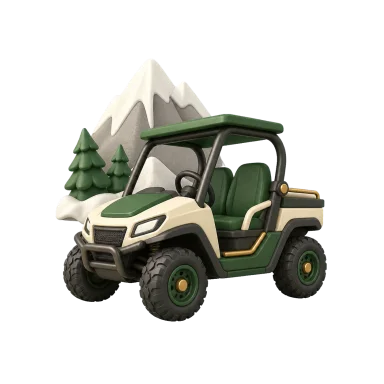
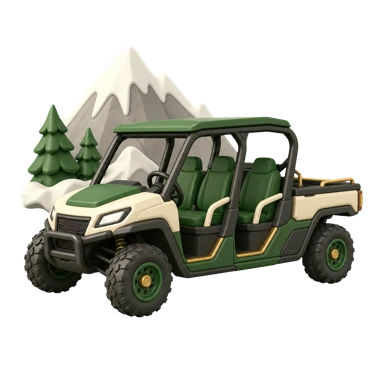
Align preference bar and refresh Can-Am buggy artwork

diff --git a/css/styles.css b/css/styles.css
@@ -820,9 +820,12 @@ a.card:active { transform: scale(0.985); transition: transform var(--motion-snap
 .feature-image {
   display: grid;
   place-items: center;
-  width: 104px;
-  height: 104px;
+  width: 128px;
+  height: 128px;
   flex: none;
+  border-radius: 40px;
+  background: radial-gradient(circle at 50% 52%, color-mix(in srgb, var(--ui-icon-surface) 76%, transparent), transparent 70%);
+  filter: drop-shadow(0 12px 16px rgba(16, 50, 42, .18));
 }
 .feature-image img { display: block; width: 100%; height: 100%; object-fit: contain; }
 .icon-box {
@@ -3998,9 +4001,9 @@ body[data-page="restaurantes"] .app-container { max-width: 1040px; }
 .guide-map-shell { border-radius: 22px; }
 .guide-view-switch { display: none; }
 @media (min-width: 901px) {
-  body[data-section="nearby"] .prefs-stack--inline { position: absolute; top: 31px; right: 20px; z-index: 600; display: flex; width: 330px; gap: 8px; margin: 0; padding: 0; }
-  body[data-section="nearby"] .lang-selector { position: static; width: 210px; margin: 0; padding: 3px; }
-  body[data-section="nearby"] .theme-selector { position: static; width: 112px; margin: 0; padding: 3px; }
+  body[data-section="nearby"] .prefs-stack--inline { position: relative; inset: auto; z-index: 600; display: flex; width: 100%; gap: 8px; margin: 0 0 14px; padding: 5px; }
+  body[data-section="nearby"] .lang-selector { position: static; width: auto; margin: 0; padding: 3px; }
+  body[data-section="nearby"] .theme-selector { position: static; width: auto; margin: 0; padding: 3px; }
   body[data-section="nearby"] .lang-selector button,
   body[data-section="nearby"] .theme-selector button { min-height: 38px; }
 }
@@ -4078,10 +4081,10 @@ html[data-theme="dark"] body {
   align-items: center;
   justify-content: center;
   gap: 5px;
-  width: max-content !important;
-  max-width: calc(100% - 24px);
+  width: 100% !important;
+  max-width: none;
   min-width: 0;
-  margin: 0 0 14px auto;
+  margin: 0 0 14px;
   padding: 5px;
   border: 1px solid var(--ui-border);
   border-radius: 30px;
@@ -4813,7 +4816,7 @@ html[data-theme="dark"] .guide-map-toggle[aria-expanded="true"] {
 }
 
 @media (max-width: 360px) {
-  body[data-section="nearby"] .prefs-stack--inline.preference-bar { display: flex; width: max-content !important; }
+  body[data-section="nearby"] .prefs-stack--inline.preference-bar { display: flex; width: 100% !important; }
   body[data-section="nearby"] .prefs-stack--inline.preference-bar .theme-selector { width: auto; }
   body[data-section="nearby"] .prefs-stack--inline.preference-bar .theme-selector__buttons { display: flex; width: auto; }
   .guide-tools { grid-template-columns: 1fr; }

diff --git a/data/.baseline/css-styles.css b/data/.baseline/css-styles.css
@@ -820,9 +820,12 @@ a.card:active { transform: scale(0.985); transition: transform var(--motion-snap
 .feature-image {
   display: grid;
   place-items: center;
-  width: 104px;
-  height: 104px;
+  width: 128px;
+  height: 128px;
   flex: none;
+  border-radius: 40px;
+  background: radial-gradient(circle at 50% 52%, color-mix(in srgb, var(--ui-icon-surface) 76%, transparent), transparent 70%);
+  filter: drop-shadow(0 12px 16px rgba(16, 50, 42, .18));
 }
 .feature-image img { display: block; width: 100%; height: 100%; object-fit: contain; }
 .icon-box {
@@ -3998,9 +4001,9 @@ body[data-page="restaurantes"] .app-container { max-width: 1040px; }
 .guide-map-shell { border-radius: 22px; }
 .guide-view-switch { display: none; }
 @media (min-width: 901px) {
-  body[data-section="nearby"] .prefs-stack--inline { position: absolute; top: 31px; right: 20px; z-index: 600; display: flex; width: 330px; gap: 8px; margin: 0; padding: 0; }
-  body[data-section="nearby"] .lang-selector { position: static; width: 210px; margin: 0; padding: 3px; }
-  body[data-section="nearby"] .theme-selector { position: static; width: 112px; margin: 0; padding: 3px; }
+  body[data-section="nearby"] .prefs-stack--inline { position: relative; inset: auto; z-index: 600; display: flex; width: 100%; gap: 8px; margin: 0 0 14px; padding: 5px; }
+  body[data-section="nearby"] .lang-selector { position: static; width: auto; margin: 0; padding: 3px; }
+  body[data-section="nearby"] .theme-selector { position: static; width: auto; margin: 0; padding: 3px; }
   body[data-section="nearby"] .lang-selector button,
   body[data-section="nearby"] .theme-selector button { min-height: 38px; }
 }
@@ -4078,10 +4081,10 @@ html[data-theme="dark"] body {
   align-items: center;
   justify-content: center;
   gap: 5px;
-  width: max-content !important;
-  max-width: calc(100% - 24px);
+  width: 100% !important;
+  max-width: none;
   min-width: 0;
-  margin: 0 0 14px auto;
+  margin: 0 0 14px;
   padding: 5px;
   border: 1px solid var(--ui-border);
   border-radius: 30px;
@@ -4813,7 +4816,7 @@ html[data-theme="dark"] .guide-map-toggle[aria-expanded="true"] {
 }
 
 @media (max-width: 360px) {
-  body[data-section="nearby"] .prefs-stack--inline.preference-bar { display: flex; width: max-content !important; }
+  body[data-section="nearby"] .prefs-stack--inline.preference-bar { display: flex; width: 100% !important; }
   body[data-section="nearby"] .prefs-stack--inline.preference-bar .theme-selector { width: auto; }
   body[data-section="nearby"] .prefs-stack--inline.preference-bar .theme-selector__buttons { display: flex; width: auto; }
   .guide-tools { grid-template-columns: 1fr; }

diff --git a/data/.baseline/index.html b/data/.baseline/index.html
@@ -9,7 +9,7 @@
  <link rel="preload" as="image" type="image/webp" media="(min-width: 720px)" fetchpriority="high" href="css/bg/winter/home-01-nevados-panorama.webp?v=2">
  <script>(function(){var t="";try{t=localStorage.getItem("gh-theme-v3")||""}catch(e){}if(t!=="light"&&t!=="dark"){t="dark"}document.documentElement.setAttribute("data-theme",t)})();</script>
   <script>(function(){var c=new URLSearchParams(location.search).get("condition");if(c==="a"||c==="b")document.documentElement.setAttribute("data-study-condition",c)})();</script>
-<link rel="stylesheet" href="css/styles.css?v=21">
+<link rel="stylesheet" href="css/styles.css?v=22">
  <link rel="stylesheet" href="css/section-palettes.css?v=4">
  <link rel="stylesheet" href="css/access.css?v=4">
 </head>
@@ -111,7 +111,7 @@
   <!-- Departure + manual pair -->
   <div class="grid-2 mb-4">
    <a href="buggy.html" class="card section-card section-card--transport">
-    <span class="home-icon" aria-hidden="true"><img src="assets/home-icons/vehicle-light.webp" data-theme-image data-src-light="assets/home-icons/vehicle-light.webp" data-src-dark="assets/home-icons/vehicle-dark.webp" width="384" height="384" alt="" loading="lazy" decoding="async"></span>
+    <span class="home-icon" aria-hidden="true"><img src="assets/home-icons/transport-light.webp" data-theme-image data-src-light="assets/home-icons/transport-light.webp" data-src-dark="assets/home-icons/transport-dark.webp" width="384" height="384" alt="" loading="lazy" decoding="async"></span>
     <h3 data-i18n="nav.buggy.t">Buggy a Plaza Tata</h3>
     <p data-i18n="nav.buggy.s">Traslado a pistas</p>
     </a>

diff --git a/index.html b/index.html
@@ -9,7 +9,7 @@
  <link rel="preload" as="image" type="image/webp" media="(min-width: 720px)" fetchpriority="high" href="css/bg/winter/home-01-nevados-panorama.webp?v=2">
  <script>(function(){var t="";try{t=localStorage.getItem("gh-theme-v3")||""}catch(e){}if(t!=="light"&&t!=="dark"){t="dark"}document.documentElement.setAttribute("data-theme",t)})();</script>
   <script>(function(){var c=new URLSearchParams(location.search).get("condition");if(c==="a"||c==="b")document.documentElement.setAttribute("data-study-condition",c)})();</script>
-<link rel="stylesheet" href="css/styles.css?v=21">
+<link rel="stylesheet" href="css/styles.css?v=22">
  <link rel="stylesheet" href="css/section-palettes.css?v=4">
  <link rel="stylesheet" href="css/access.css?v=4">
 </head>
@@ -111,7 +111,7 @@
   <!-- Departure + manual pair -->
   <div class="grid-2 mb-4">
    <a href="buggy.html" class="card section-card section-card--transport">
-    <span class="home-icon" aria-hidden="true"><img src="assets/home-icons/vehicle-light.webp" data-theme-image data-src-light="assets/home-icons/vehicle-light.webp" data-src-dark="assets/home-icons/vehicle-dark.webp" width="384" height="384" alt="" loading="lazy" decoding="async"></span>
+    <span class="home-icon" aria-hidden="true"><img src="assets/home-icons/transport-light.webp" data-theme-image data-src-light="assets/home-icons/transport-light.webp" data-src-dark="assets/home-icons/transport-dark.webp" width="384" height="384" alt="" loading="lazy" decoding="async"></span>
     <h3 data-i18n="nav.buggy.t">Buggy a Plaza Tata</h3>
     <p data-i18n="nav.buggy.s">Traslado a pistas</p>
     </a>

diff --git a/actividades.html b/actividades.html
@@ -11,7 +11,7 @@
  <link rel="preload" as="image" type="image/webp" media="(min-width: 720px)" fetchpriority="high" href="css/bg/winter/actividades-montana-otono.webp?v=2">
   <script>(function(){var t="";try{t=localStorage.getItem("gh-theme-v3")||""}catch(e){}if(t!=="light"&&t!=="dark"){t="dark"}document.documentElement.setAttribute("data-theme",t)})();</script>
   <script>(function(){var c=new URLSearchParams(location.search).get("condition");if(c==="a"||c==="b")document.documentElement.setAttribute("data-study-condition",c)})();</script>
-<link rel="stylesheet" href="css/styles.css?v=21">
+<link rel="stylesheet" href="css/styles.css?v=22">
   <link rel="stylesheet" href="css/section-palettes.css?v=4">
   <link rel="stylesheet" href="css/access.css?v=4">
 </head>

diff --git a/botiquin.html b/botiquin.html
@@ -9,7 +9,7 @@
  <link rel="preload" as="image" type="image/webp" media="(min-width: 720px)" fetchpriority="high" href="css/bg/winter/instrucciones-termas-nieve.webp?v=2">
   <script>(function(){var t="";try{t=localStorage.getItem("gh-theme-v3")||""}catch(e){}if(t!=="light"&&t!=="dark"){t="dark"}document.documentElement.setAttribute("data-theme",t)})();</script>
   <script>(function(){var c=new URLSearchParams(location.search).get("condition");if(c==="a"||c==="b")document.documentElement.setAttribute("data-study-condition",c)})();</script>
-<link rel="stylesheet" href="css/styles.css?v=21">
+<link rel="stylesheet" href="css/styles.css?v=22">
 <link rel="stylesheet" href="css/section-palettes.css?v=4">
 <link rel="stylesheet" href="css/access.css?v=4">
 </head>

diff --git a/buggy.html b/buggy.html
@@ -9,7 +9,7 @@
  <link rel="preload" as="image" type="image/webp" media="(min-width: 720px)" fetchpriority="high" href="css/bg/winter/tickets-pistas-nevados.webp?v=2">
   <script>(function(){var t="";try{t=localStorage.getItem("gh-theme-v3")||""}catch(e){}if(t!=="light"&&t!=="dark"){t="dark"}document.documentElement.setAttribute("data-theme",t)})();</script>
   <script>(function(){var c=new URLSearchParams(location.search).get("condition");if(c==="a"||c==="b")document.documentElement.setAttribute("data-study-condition",c)})();</script>
-<link rel="stylesheet" href="css/styles.css?v=21">
+<link rel="stylesheet" href="css/styles.css?v=22">
 <link rel="stylesheet" href="css/section-palettes.css?v=4">
 <link rel="stylesheet" href="css/access.css?v=4">
 </head>

diff --git a/cerca-de-mi.html b/cerca-de-mi.html
@@ -11,7 +11,7 @@
   <link rel="stylesheet" href="assets/vendor/leaflet/leaflet.css">
   <link rel="stylesheet" href="assets/vendor/leaflet-markercluster/MarkerCluster.css">
   <link rel="stylesheet" href="assets/vendor/leaflet-markercluster/MarkerCluster.Default.css">
-  <link rel="stylesheet" href="css/styles.css?v=21">
+  <link rel="stylesheet" href="css/styles.css?v=22">
   <link rel="stylesheet" href="css/section-palettes.css?v=4">
   <link rel="stylesheet" href="css/access.css?v=4">
 </head>

diff --git a/check-in.html b/check-in.html
@@ -10,7 +10,7 @@
  <link rel="preload" as="image" type="image/webp" media="(min-width: 720px)" fetchpriority="high" href="css/bg/winter/checkin-camino-nieve.webp?v=2">
   <script>(function(){var t="";try{t=localStorage.getItem("gh-theme-v3")||""}catch(e){}if(t!=="light"&&t!=="dark"){t="dark"}document.documentElement.setAttribute("data-theme",t)})();</script>
   <script>(function(){var c=new URLSearchParams(location.search).get("condition");if(c==="a"||c==="b")document.documentElement.setAttribute("data-study-condition",c)})();</script>
-<link rel="stylesheet" href="css/styles.css?v=21">
+<link rel="stylesheet" href="css/styles.css?v=22">
  <link rel="stylesheet" href="css/section-palettes.css?v=4">
  <link rel="stylesheet" href="css/access.css?v=4">
 </head>

diff --git a/check-out.html b/check-out.html
@@ -10,7 +10,7 @@
  <link rel="preload" as="image" type="image/webp" media="(min-width: 720px)" fetchpriority="high" href="css/bg/winter/checkout-bosque-atardecer.webp?v=2">
   <script>(function(){var t="";try{t=localStorage.getItem("gh-theme-v3")||""}catch(e){}if(t!=="light"&&t!=="dark"){t="dark"}document.documentElement.setAttribute("data-theme",t)})();</script>
   <script>(function(){var c=new URLSearchParams(location.search).get("condition");if(c==="a"||c==="b")document.documentElement.setAttribute("data-study-condition",c)})();</script>
-<link rel="stylesheet" href="css/styles.css?v=21">
+<link rel="stylesheet" href="css/styles.css?v=22">
  <link rel="stylesheet" href="css/section-palettes.css?v=4">
  <link rel="stylesheet" href="css/access.css?v=4">
 </head>

diff --git a/clima.html b/clima.html
@@ -11,7 +11,7 @@
  <link rel="preload" as="image" type="image/webp" media="(min-width: 720px)" fetchpriority="high" href="css/bg/winter/clima-nieve-panoramica.webp?v=2">
   <script>(function(){var t="";try{t=localStorage.getItem("gh-theme-v3")||""}catch(e){}if(t!=="light"&&t!=="dark"){t="dark"}document.documentElement.setAttribute("data-theme",t)})();</script>
   <script>(function(){var c=new URLSearchParams(location.search).get("condition");if(c==="a"||c==="b")document.documentElement.setAttribute("data-study-condition",c)})();</script>
-<link rel="stylesheet" href="css/styles.css?v=21">
+<link rel="stylesheet" href="css/styles.css?v=22">
 <link rel="stylesheet" href="css/section-palettes.css?v=4">
 <link rel="stylesheet" href="css/access.css?v=4">
 </head>

diff --git a/data/.baseline/actividades.html b/data/.baseline/actividades.html
@@ -11,7 +11,7 @@
  <link rel="preload" as="image" type="image/webp" media="(min-width: 720px)" fetchpriority="high" href="css/bg/winter/actividades-montana-otono.webp?v=2">
   <script>(function(){var t="";try{t=localStorage.getItem("gh-theme-v3")||""}catch(e){}if(t!=="light"&&t!=="dark"){t="dark"}document.documentElement.setAttribute("data-theme",t)})();</script>
   <script>(function(){var c=new URLSearchParams(location.search).get("condition");if(c==="a"||c==="b")document.documentElement.setAttribute("data-study-condition",c)})();</script>
-<link rel="stylesheet" href="css/styles.css?v=21">
+<link rel="stylesheet" href="css/styles.css?v=22">
   <link rel="stylesheet" href="css/section-palettes.css?v=4">
   <link rel="stylesheet" href="css/access.css?v=4">
 </head>